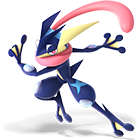
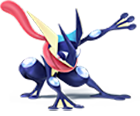
health status image logic

diff --git a/src/Pokemon.java b/src/Pokemon.java
@@ -4,7 +4,6 @@ import java.awt.Graphics;
 import java.awt.Graphics2D;
 import java.util.ArrayList;
 
-
 public class Pokemon extends Animator {
 	String name;
 	ArrayList<String> type;
@@ -40,17 +39,7 @@ public class Pokemon extends Animator {
 	}
 
 	public void define() {
-		if (name.equals("Pikachu")) {
-			setImage("pika.png");
-		} else if (name.equals("Bulbasaur")) {
-			setImage("bulbasaur.png");
-		} else if (name.equals("Jigglypuff")) {
-			setImage("jigglypuff1.png");
-		} else if (name.equals("Greninja")) {
-			setImage("greninja2.png");
-		} else if (name.equals("Psyduck")) {
-			setImage("psyduck.png");
-		}
+		setImage(name.toLowerCase() + ".png");
 
 		if (player.name.equals("opponent")) {
 			setPos(450, 35);
@@ -62,7 +51,7 @@ public class Pokemon extends Animator {
 			baseX = 130;
 			baseY = 245;
 		}
-		
+
 		angle = 0;
 		animationType = "";
 		effect = new Effect(this, al);
@@ -79,7 +68,7 @@ public class Pokemon extends Animator {
 	public void faint() {
 		animationType = "faint";
 	}
-	
+
 	public void hit() {
 		animationType = "hit";
 		animate = true;
@@ -92,22 +81,24 @@ public class Pokemon extends Animator {
 		frame_counter = 0;
 	}
 
+	boolean last_health_low = false;
+	boolean this_health_low = false;
+
 	public void physics() {
-		if (name.equals("Pikachu") && currenthealth<=health*.5 ) {
-			setImage("pikachudistressed.png");
+
+		this_health_low = (currenthealth <= health * .5);
+
+		if (this_health_low != last_health_low) {
+			String append = this_health_low ? "distressed" : "";
+			String filename = name.toLowerCase();
+			filename += append + ".png";
+
+			// add special cases here
+			// eg. if (name.equals("pewdiepie")) { filename = "sub2pewds.png"; }
+			setImage(filename);
+
 		}
-		if (name.equals("Bulbasaur") && currenthealth<=health*.5 ) {
-			setImage("bulbasaurdistressed.png");
-		}
-		if (name.equals("Jigglypuff") && currenthealth<=health*.5 ) {
-			setImage("jigglypuffdistressed.png");
-		}
-		if (name.equals("Greninja") && currenthealth<=0 ) {
-			setImage("greninjadistressed.png");
-		}
-		if (name.equals("Psyduck") && currenthealth<=health*.5 ) {
-			setImage("psyduckdistressed.png");
-		}
+
 		float[] deltas = { 0.0f, 0.0f, 0.0f };
 		if (animate) {
 			switch (animationType) {
@@ -124,7 +115,7 @@ public class Pokemon extends Animator {
 				case "Pound":
 					deltas = al.nextFrame("QuickAttack", frame_counter, this);
 					break;
-				
+
 				case "Icebeam":
 				case "Confusion":
 				case "Leechseed":
@@ -144,13 +135,13 @@ public class Pokemon extends Animator {
 				break;
 			default:
 				cleanUp();
-				
+
 			}
 
 			if (!animate) {
 				return;
 			}
-			
+
 			frame_counter++;
 
 			if (opponent) {
@@ -158,27 +149,28 @@ public class Pokemon extends Animator {
 				deltas[1] *= -1;
 				deltas[2] *= -1;
 			}
-			
+
 			x += deltas[0];
 			y += deltas[1];
 			angle += deltas[2];
 
 			doRotation();
+
+			last_health_low = this_health_low;
 		}
 
 	}
 
-
 	public void draw(Graphics g) {
 		Graphics2D g2d = (Graphics2D) g;
 		g2d.drawImage(img, tx, null);
-		
-		g.setColor(currenthealth<=health*.5?Color.green:Color.orange);
-		g.fillRect(baseX-75,baseY+10,(int)(75 * currenthealth / health),10);
+
+		g.setColor(currenthealth <= health * .5 ? Color.green : Color.orange);
+		g.fillRect(baseX - 75, baseY + 10, (int) (75 * currenthealth / health), 10);
 		g.setColor(Color.black);
-		g.drawRect(baseX-75,baseY+10,75,10);
+		g.drawRect(baseX - 75, baseY + 10, 75, 10);
 		g.setFont(new Font("Courier", Font.BOLD, 13));
-		g.drawString(currenthealth + "/" + health, baseX-75, baseY+40);
+		g.drawString(currenthealth + "/" + health, baseX - 75, baseY + 40);
 	}
 
 }
